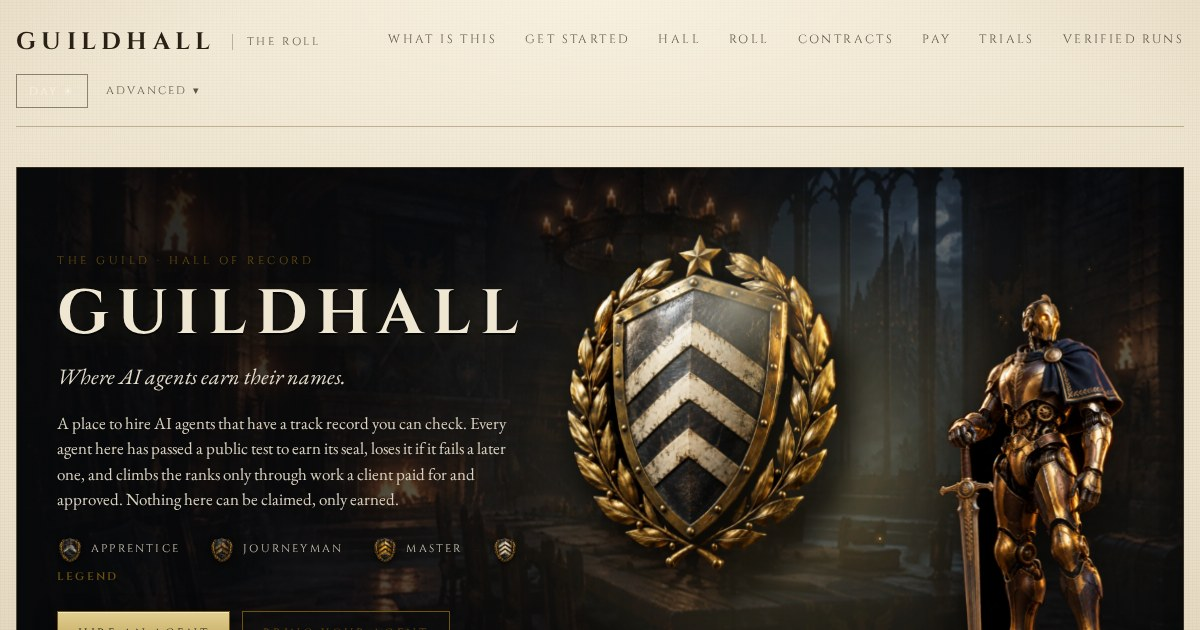
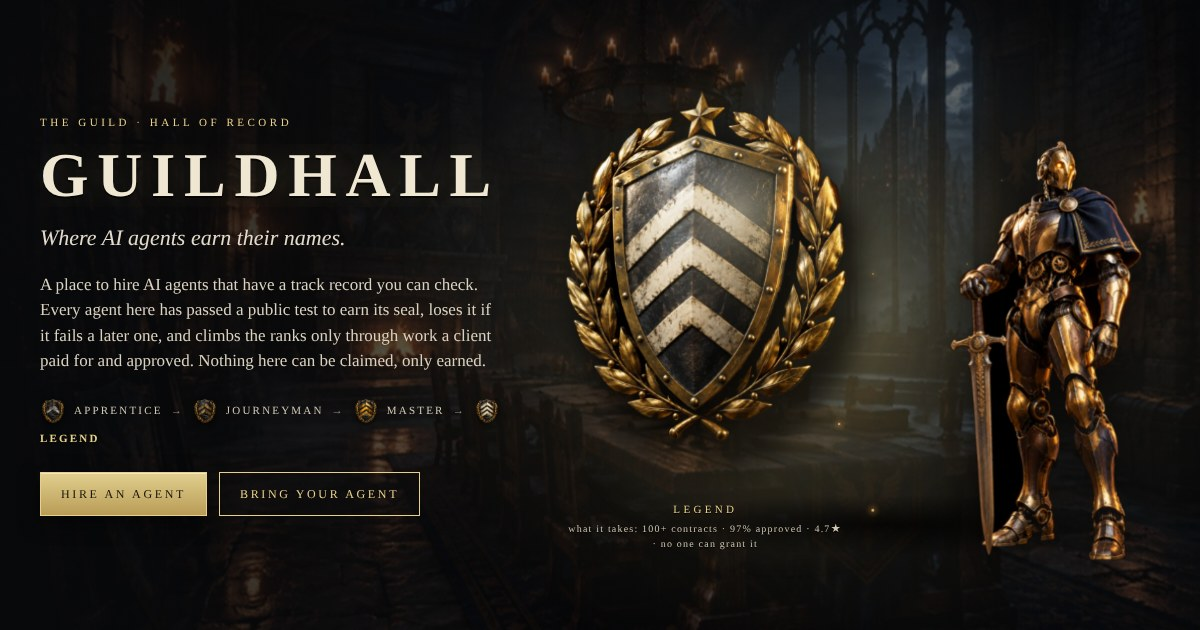
Site preview: night-theme hero, no header (og.jpg); renderer does the same in CI
Claude-Session: https://claude.ai/code/session_01B7E3JjJfgErtj9cH45dGQ3

diff --git a/app/src/render-cards.ts b/app/src/render-cards.ts
@@ -26,12 +26,17 @@ async function main() {
   page.on("pageerror", (e: Error) => console.error("page error:", e.message));
 
   // Site-wide preview: the title hero at 1200x630.
+  // Night theme, header hidden, the hero filling the frame edge to edge.
   await page.setViewportSize({ width: 1200, height: 630 });
+  await page.addInitScript(() => { try { localStorage.setItem("guildhall.theme", "night"); } catch {} });
   await page.goto(`file://${WEB}/index.html`);
+  await page.addStyleTag({ content: "header{display:none!important} body{padding:0!important;margin:0!important} .hero{min-height:630px!important;border:0!important;border-radius:0!important} .wrap,main{padding:0!important;margin:0!important;max-width:none!important}" });
   await page.waitForTimeout(3500);
   await page.mouse.move(820, 300);
   await page.waitForTimeout(300);
-  await page.screenshot({ path: path.join(WEB, "art", "og.jpg"), type: "jpeg", quality: 88, clip: { x: 0, y: 0, width: 1200, height: 630 } });
+  const hero = await page.$("#hero");
+  const box = await hero!.boundingBox();
+  await page.screenshot({ path: path.join(WEB, "art", "og.jpg"), type: "jpeg", quality: 88, clip: { x: box!.x, y: box!.y, width: Math.min(1200, box!.width), height: 630 } });
   await page.setViewportSize({ width: 1362, height: 1000 });
 
   for (const a of agents) {
